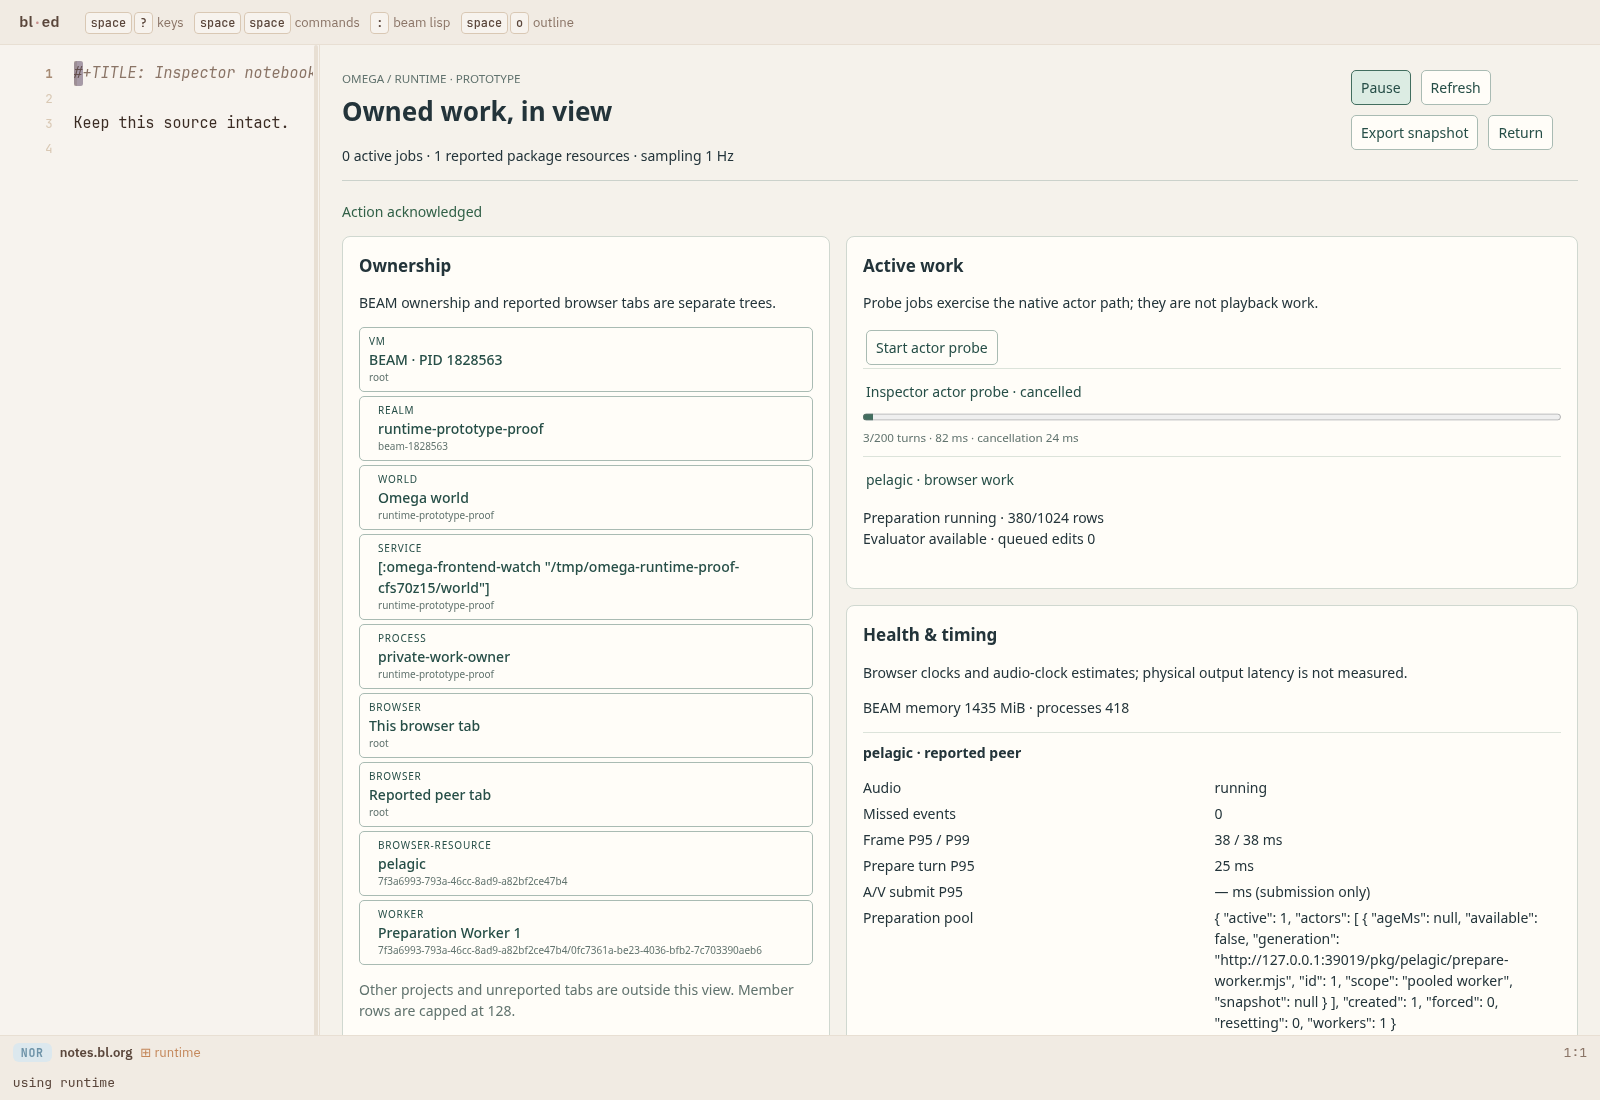
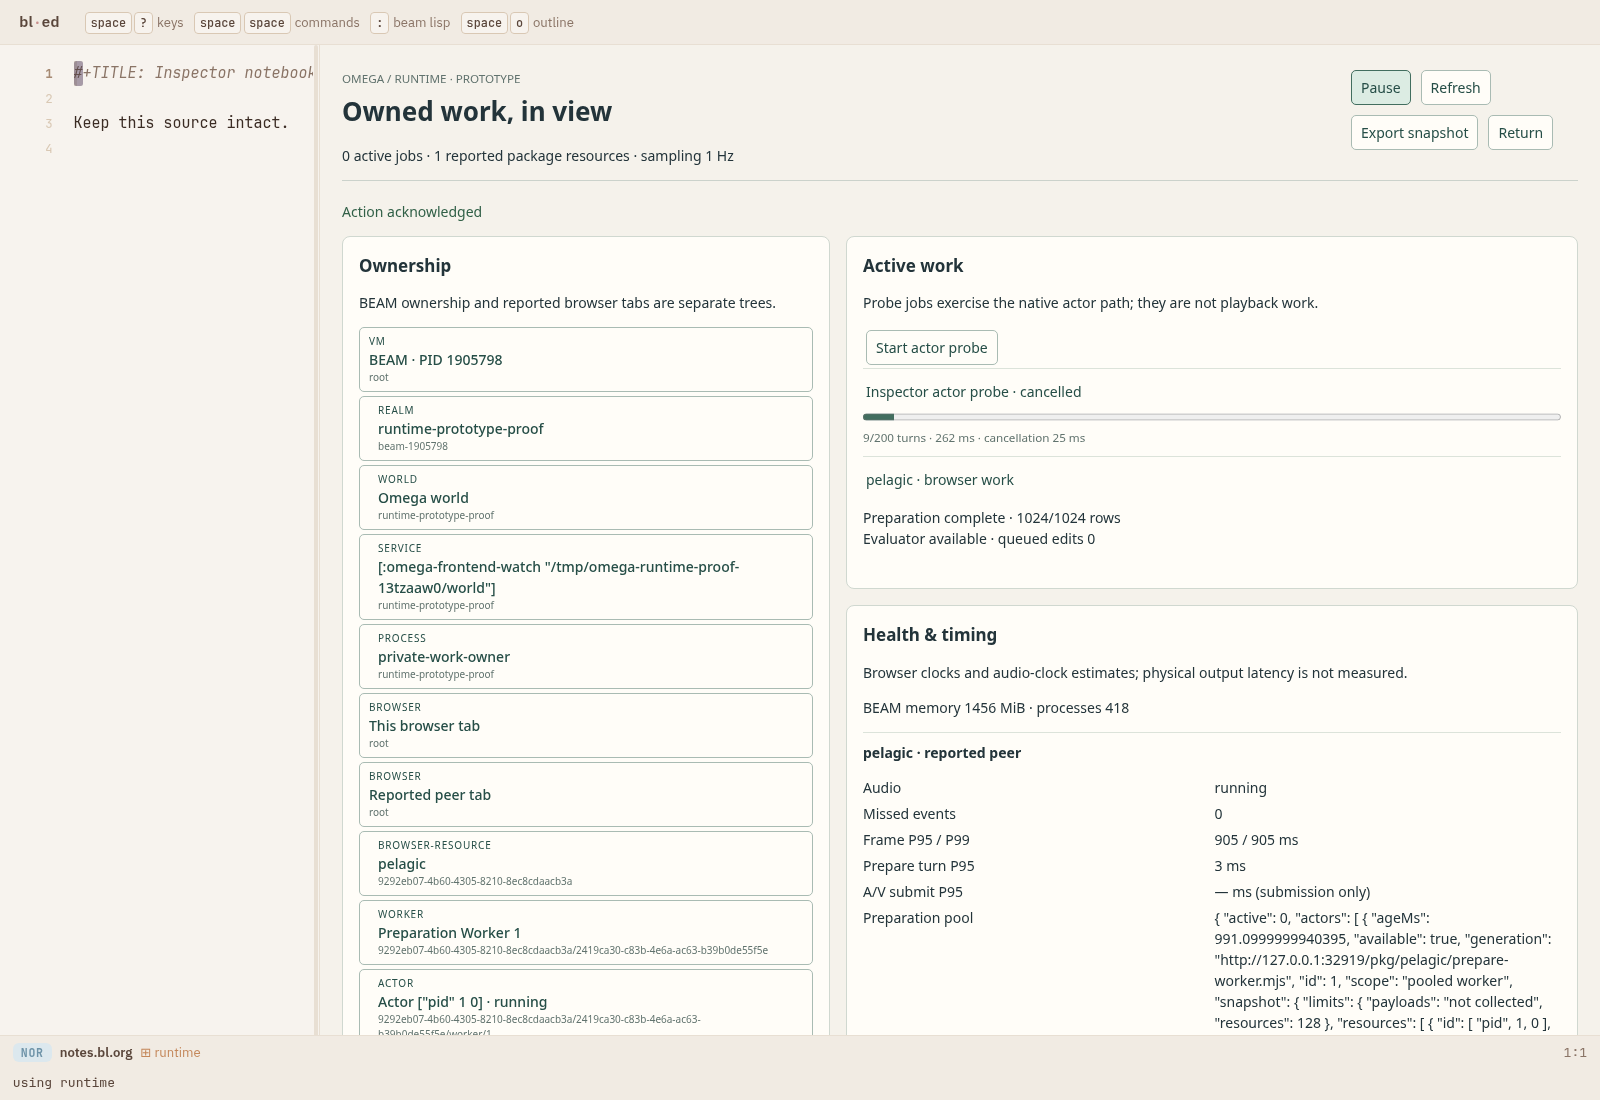
Preserve inspector DOM state across live observation samples

diff --git a/spikes/runtime/test/browser.py b/spikes/runtime/test/browser.py
@@ -38,6 +38,18 @@ with tempfile.TemporaryDirectory(prefix='omega-runtime-proof-') as temp:
     page.get_by_role('treeitem').filter(has_text='BEAM · PID').wait_for(timeout=30000)
     for name in ['Ownership','Active work','Health & timing','Builds & revisions','Selected item']:assert page.get_by_role('heading',name=name,exact=True).is_visible()
     checked('all five sections render live backend ownership')
+    assert page.evaluate('''async () => {
+      const {patchHTML}=await import(new URL('dom-patch.mjs',location.href));
+      const fixture=document.createElement('div');document.body.append(fixture);
+      try {
+        patchHTML(fixture,'<button data-key="a">A</button><details data-key="b"><summary>B</summary></details>');
+        const a=fixture.firstChild,b=fixture.lastChild;a.focus();b.open=true;
+        patchHTML(fixture,'<details data-key="b"><summary>Updated</summary></details><button data-key="a">Changed</button>');
+        if(fixture.firstChild!==b||fixture.lastChild!==a||!b.open||document.activeElement!==a||a.textContent!=='Changed')return false;
+        patchHTML(fixture,'<p>Removed</p>');return !a.isConnected&&!b.isConnected&&fixture.childNodes.length===1;
+      } finally {fixture.remove();}
+    }''')
+    checked('generic DOM leaf retains keyed identity/focus on reorder and removes obsolete nodes')
     page.get_by_role('button',name='Start actor probe',exact=True).click()
     page.get_by_role('button',name='Cancel',exact=True).wait_for(timeout=10000)
     page.get_by_role('button',name='Cancel',exact=True).click()
@@ -73,6 +85,17 @@ with tempfile.TemporaryDirectory(prefix='omega-runtime-proof-') as temp:
     page.get_by_role('treeitem').filter(has_text='Reported peer tab').wait_for(timeout=15000)
     page.get_by_text('pelagic · reported peer',exact=True).wait_for(timeout=15000)
     checked('another live PELAGIC tab reports package workers and timing')
+    # Sampling must update values without replacing focused controls/details.
+    page.evaluate("""() => {const root=document.querySelector('[data-pane="observatory"] .view-body').shadowRoot;
+      window.retainedDetail=root.querySelector('details');window.retainedDetail.open=true;
+      window.retainedButton=root.querySelector('[data-action="refresh"]');window.retainedButton.focus();
+      window.retainedScroll=root.host;window.retainedScroll.scrollTop=40;
+      window.retainedScrollTop=window.retainedScroll.scrollTop;}""")
+    page.wait_for_timeout(2200)
+    assert page.evaluate("""() => {const root=document.querySelector('[data-pane="observatory"] .view-body').shadowRoot;
+      return window.retainedDetail.isConnected&&window.retainedDetail.open&&root.activeElement===window.retainedButton
+        &&window.retainedScroll.isConnected&&window.retainedScroll.scrollTop===window.retainedScrollTop;}""")
+    checked('sampling preserves focused controls, open details and ownership scroll')
     page.screenshot(path=str(PROOF/'used.png'),full_page=True)
     page.get_by_role('button',name='Open source',exact=True).click()
     page.wait_for_function('window.blEd.state().get(window.blEd.K("path"))==="runtime:source/src/omega/runtime.bl"')

diff --git a/vendor/bl-ed/VENDOR.md b/vendor/bl-ed/VENDOR.md
@@ -383,3 +383,9 @@ compiled in the same frontend graph. Runtime and Pelagic manifests request that
 namespace explicitly. The editor remains the existing vendored bl-ed package;
 this change does not move it into Beam Lisp. Generic actor ownership stays in
 upstream runtime records, rather than this browser resource collector.
+
+`web/dom-patch.mjs` is a DOM-only keyed reconciliation leaf, first used by the
+Runtime host. It preserves unchanged elements and user-opened details while
+updating attributes/text. It imports no Omega/editor model and creates no
+listeners, timers or state registry. Runtime's real-browser proof checks focus,
+open details and ownership scroll across live samples.
